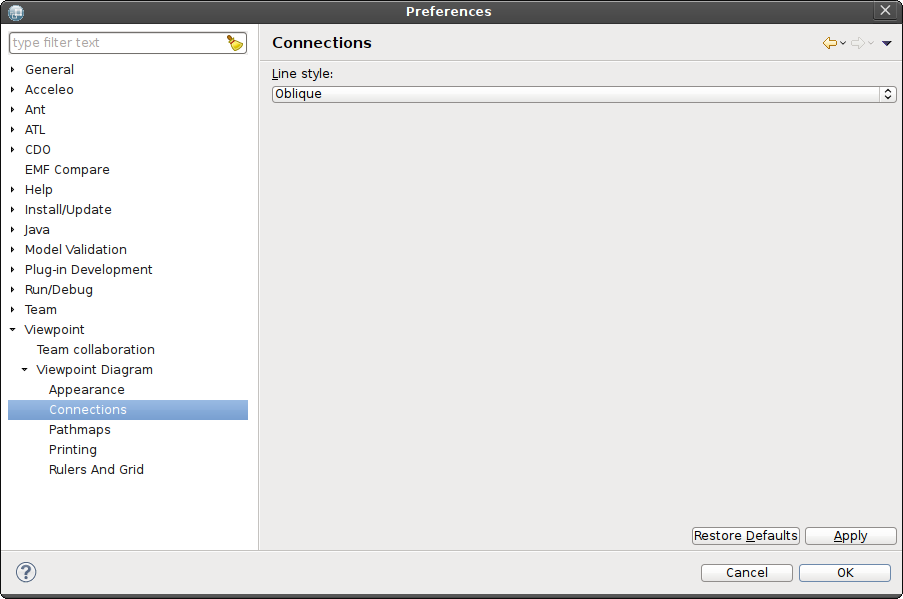
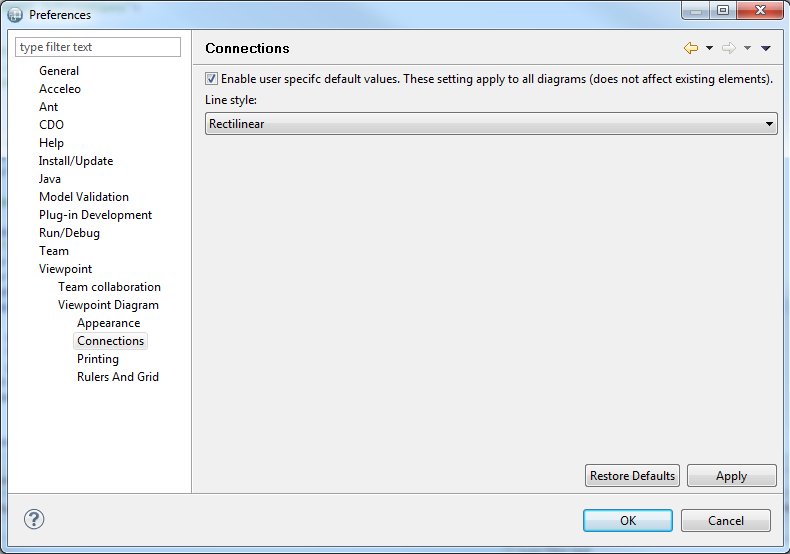
[419926] Remove reference to old Viewpoint version

Changed region(s): [[0.0, 0.0, 1.0, 1.0]]

diff --git a/plugins/org.eclipse.sirius.doc/doc/user/diagrams/Diagrams.html b/plugins/org.eclipse.sirius.doc/doc/user/diagrams/Diagrams.html
@@ -613,12 +613,12 @@
 		<p>Theses customizations can be reset by the &#171;Reset style customization&#187; button available in the &#171;Appearance&#187; tab of the property view and in the diagram editor tool bar.</p>
 		<p>NOTE: in case a user customized a Node with a WorkspaceImage style (through the &#171;Set style to workspace image&#187; action), it is considered in its whole customized then it can&#8217;t be updated by the refresh action, only the &#171;Reset style properties to default values&#187; action can update it by reset it.</p>
 		<h4 id="routingStylePref">Customize edge routing style from preferences</h4>
-		<p>Since Viewpoint 6.9, you have the possibility to customize the routing style of all new edges from the preferences. In the preference page 
+		<p>You have the possibility to customize the routing style of all new edges from the preferences. In the preference page 
 			<em>Viewpoint/Viewpoint Diagram/Connections</em>, you can enable 
 			<em>user specific default values</em> and select a default routing style for all new edges.
 		</p>
 		<p>
-			<img border="0" src="images/preferences_viewpoint_diagram_connections_VP6.9.png"/>
+			<img border="0" src="images/preferences_viewpoint_diagram_connections.png"/>
 		</p>
 		<p>For example:</p>
 		<ul>
